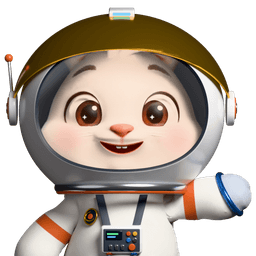
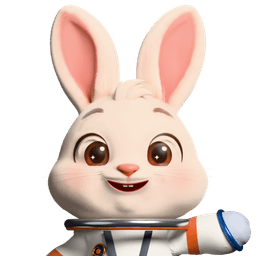
Rabi'yi Giydir: Astronot Rabi'de kask kaldırıldı
- Kask kabuğu, altın güneşlik, tepe feneri, yan diskler, anten ve cam vizör
  silindi; uzay giysisi ve boyun bağlantı halkası duruyor.
- Kulaklar dik, kulak tüyü temel sahneden geri yazıldı; ikon kadrajı yeni
  başa göre.
- Maskot kuralları güncellendi (`astronot_kasksiz.py`).

diff --git a/docs/kurallar/maskot-ve-ikon.md b/docs/kurallar/maskot-ve-ikon.md
@@ -153,14 +153,14 @@ Rabi proje kurallarının bir parçası — dizin ve genel kurallar: [AGENTS.md]
   görsel, `hazir: true`, yuva kayıt biçimi için `boyun`. Her biri kendi sahnesinde
   (`rabi_<id>.blend`, `<id>_kur.py`, `<id>_katman.py`); ortak üretim rehberi
   `giydir-betikleri/AVATAR_REHBER.md` (kamera, kalite dersleri).
-  - Astronot Rabi (`astronot`, kullanıcı istedi, 2026-11-02): kasklı uzay giysisi
-    (`astronot_kur.py` → `rabi_astronot.blend`, yüz `astronot_doku.py`, çizim
-    `astronot_katman.py`). Kulaklar kaskın içinde gizli (`BERE_KULAK`; cam kulak kılıfı
-    denendi, üst kadrajı kesti ve torba gibi durdu). Ön vizör yansıması `visible_glossy = False`
-    ve kenar sönümlü: doğrudan lamba yansıması göz üstünde beyaz leke yapıyordu. Altın
-    güneşlik yan menteşe ekseninden geçen iki düzlemle kesilir ki kenarlar pürüzsüz yay
-    olup yan disklere otursun; turuncu kol/paça şeritleri ve eldiven geçişi üçgen dişi
-    yapmaması için düğüm ağacında `giysi_konum` ve `kol_maske` üzerinden boyanır.
+  - Astronot Rabi (`astronot`, kullanıcı istedi, 2026-11-02): uzay giysisi, **kask yok**
+    (kullanıcı kaskı beğenmedi, 2026-11-03; geri getirme). Giysi `astronot_kur.py` →
+    `rabi_astronot.blend` (kasklı kurar); `astronot_kasksiz.py` kask parçalarını silip kulak
+    tüyünü `rabi_giydir6.blend`ten geri yazar → `rabi_astronot_kasksiz.blend`. Yüz
+    `astronot_doku.py`, çizim `astronot_katman.py` (kask yoksa kulaklar dik, bıyık tam boy),
+    sıkıştırma `astronot_sikistir.mjs`. Boyun bağlantı halkası kalır. Turuncu kol/paça
+    şeritleri ve eldiven geçişi üçgen dişi yapmaması için düğüm ağacında `giysi_konum` ve
+    `kol_maske` üzerinden boyanır.
 - **Sigma Rabi hazır avatar** (kullanıcı istedi, 2026-10-31): **özelleştirilemez**;
   seçilince öbür eşyalar çıkar, eşya seçilince avatar çıkar (`hazir: true`, `giy`).
   Tek görsel `sigma.png` (Rabi + takım + yer gölgesi, `katman_takim.py`); altında
